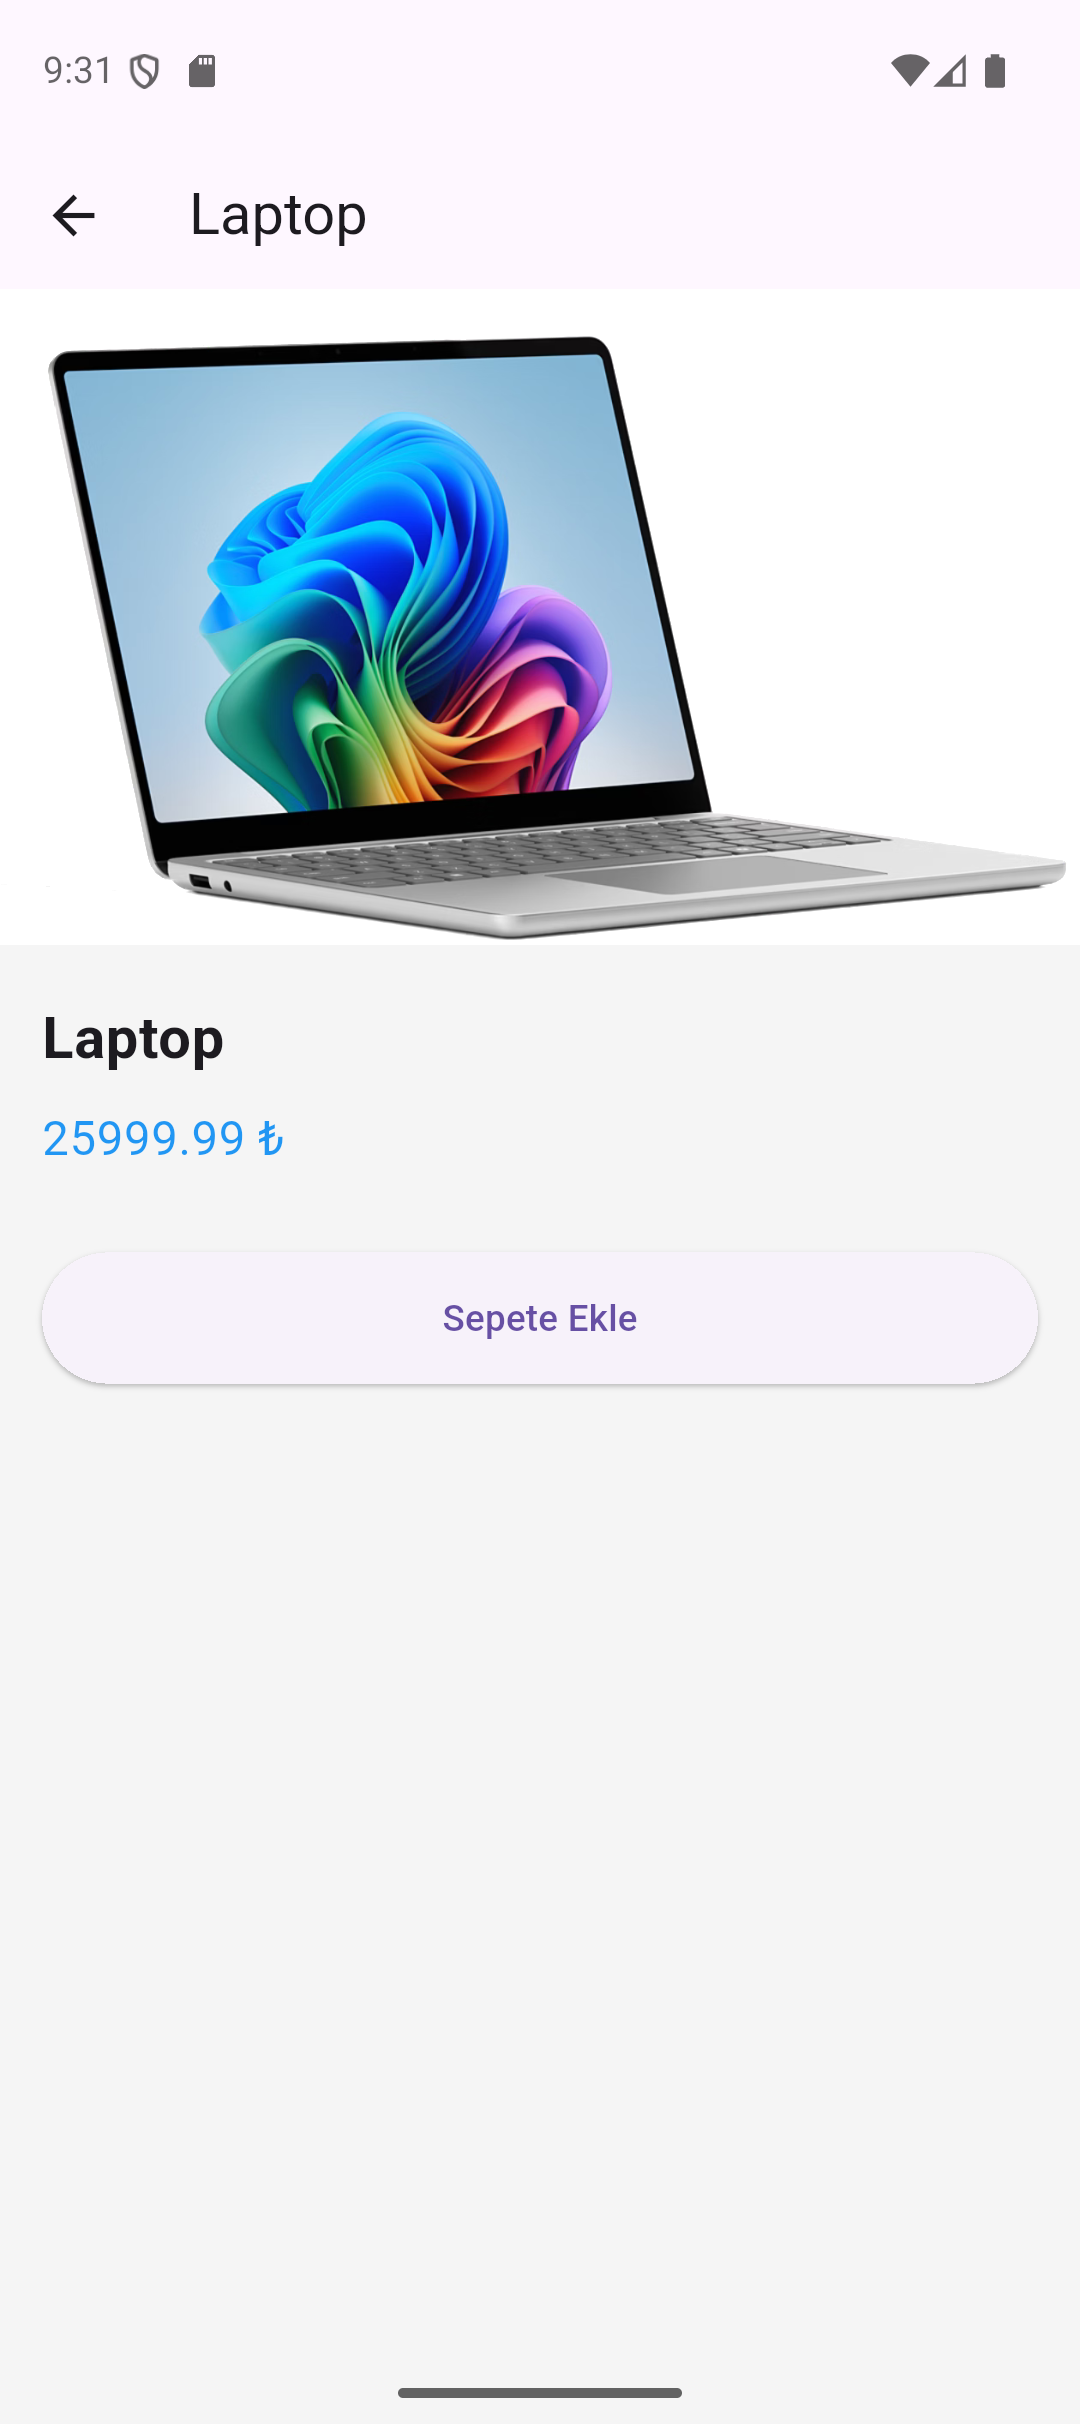
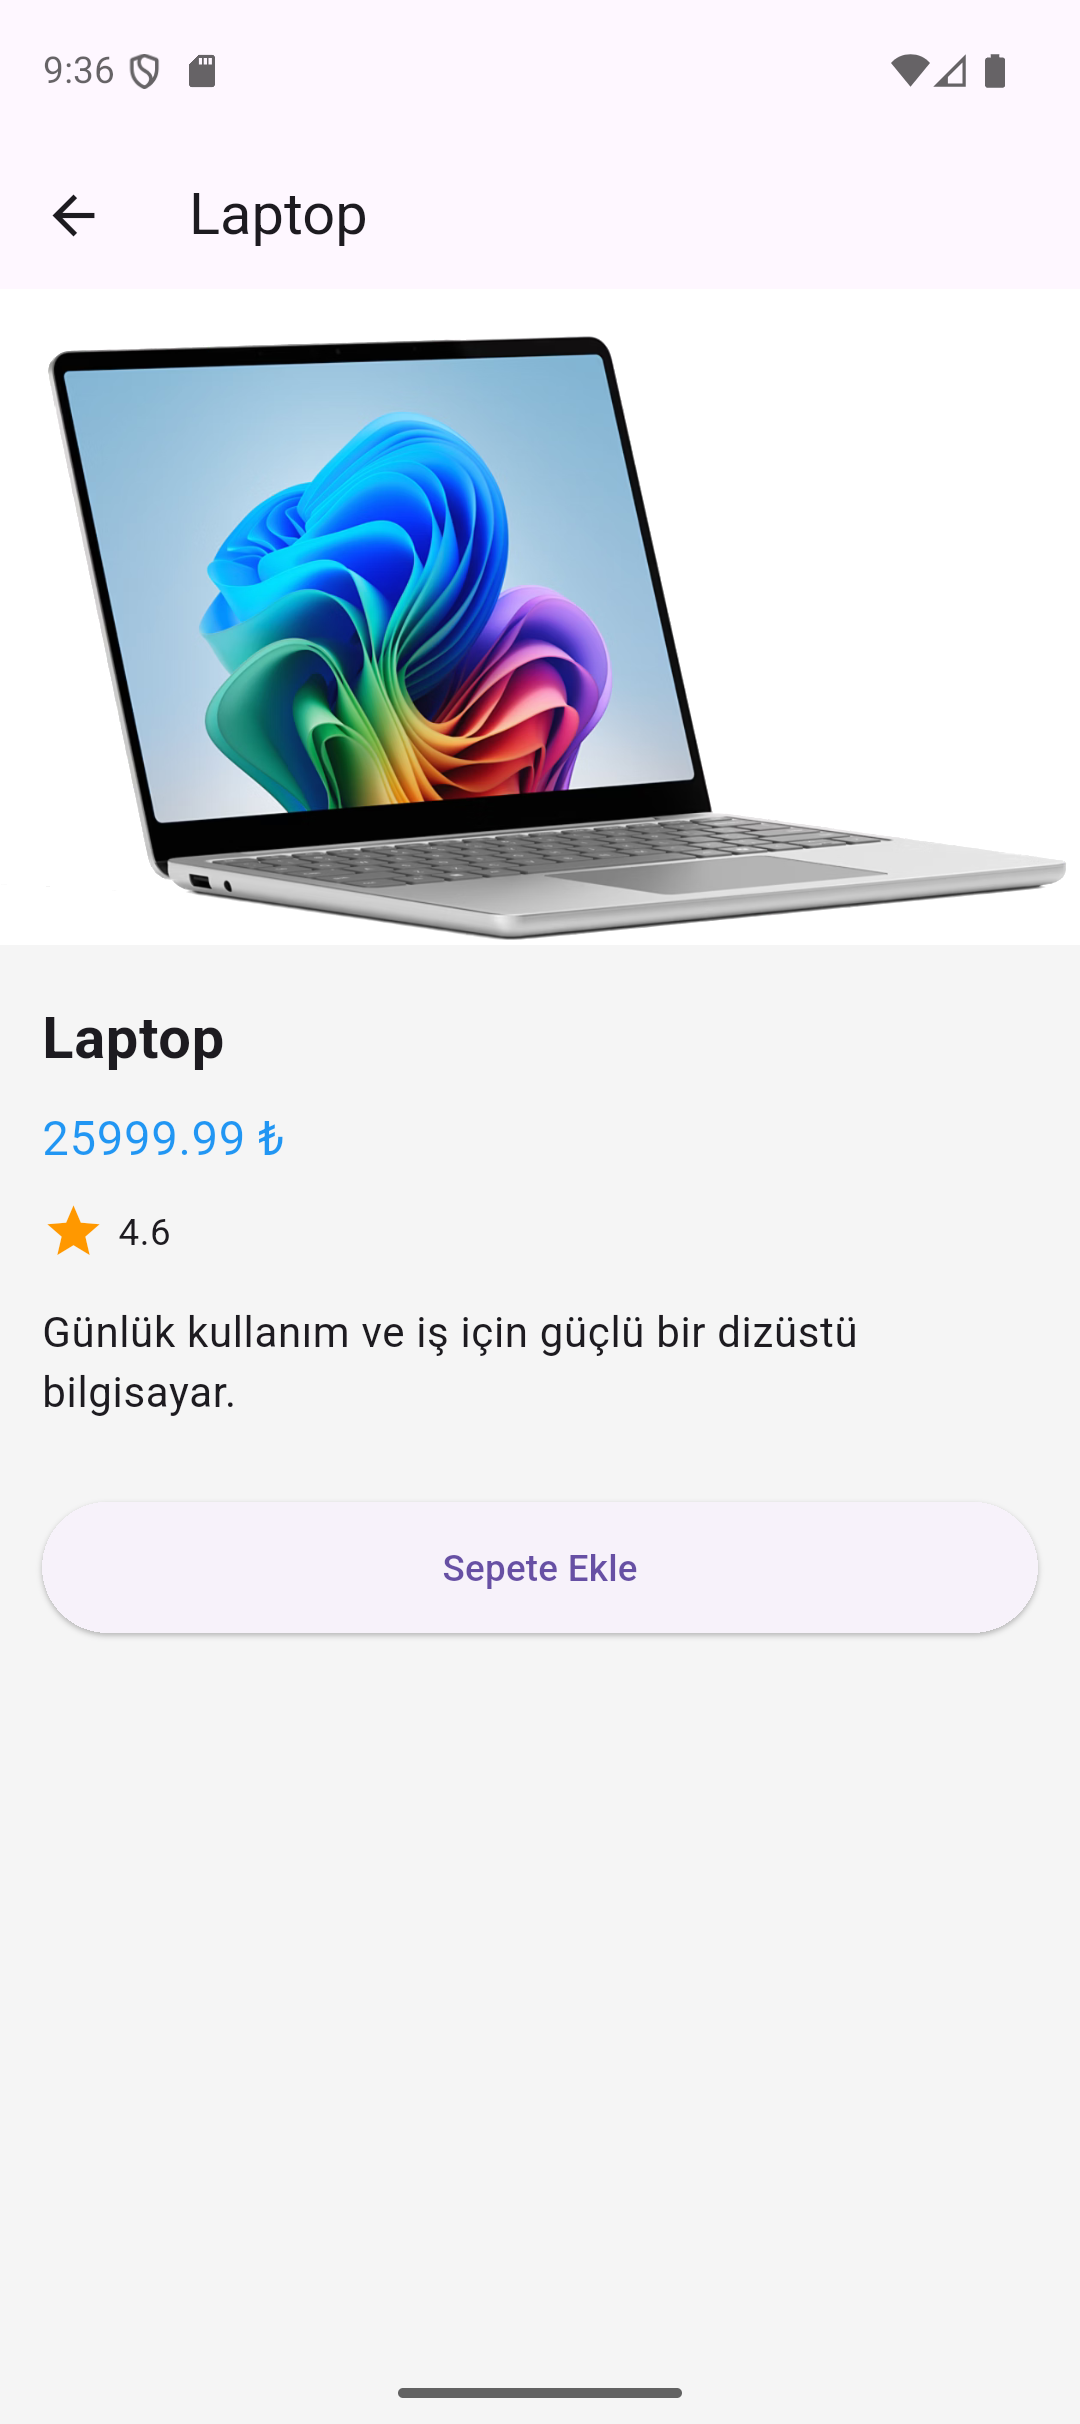
dammy data detay eklendi

diff --git a/lib/pages/detail_page.dart b/lib/pages/detail_page.dart
@@ -47,6 +47,25 @@ class DetailPage extends StatelessWidget {
                 ),
               ),
             ),
+            const SizedBox(height: 10),
+            Padding(
+              padding: const EdgeInsets.symmetric(horizontal: 16),
+              child: Row(
+                children: [
+                  const Icon(Icons.star, color: Colors.orange),
+                  const SizedBox(width: 5),
+                  Text("${product.rating}"),
+                ],
+              ),
+            ),
+            const SizedBox(height: 15),
+            Padding(
+              padding: const EdgeInsets.symmetric(horizontal: 16),
+              child: Text(
+                product.description,
+                style: const TextStyle(fontSize: 16),
+              ),
+            ),
             const SizedBox(height: 30),
             Padding(
               padding: const EdgeInsets.symmetric(horizontal: 16),
@@ -67,6 +86,7 @@ class DetailPage extends StatelessWidget {
                 ),
               ),
             ),
+            const SizedBox(height: 20),
           ],
         ),
       ),

diff --git a/lib/data/dummy_data.dart b/lib/data/dummy_data.dart
@@ -6,23 +6,32 @@ List<Product> products = [
     title: "Kulaklık",
     image: "assets/images/headphone.jpg",
     price: 899.99,
+    description: "Yüksek ses kalitesi ve konforlu kullanım sunan kablosuz kulaklık.",
+    rating: 4.5,
   ),
   Product(
     id: 2,
     title: "Telefon",
     image: "assets/images/phone.jpg",
     price: 12999.99,
+    description: "Yüksek performanslı işlemciye sahip akıllı telefon.",
+    rating: 4.7,
   ),
   Product(
     id: 3,
     title: "Laptop",
     image: "assets/images/laptop.jpg",
     price: 25999.99,
+    description: "Günlük kullanım ve iş için güçlü bir dizüstü bilgisayar.",
+    rating: 4.6,
   ),
   Product(
     id: 4,
     title: "Saat",
     image: "assets/images/watch.jpg",
     price: 1999.99,
+    description: "Şık tasarımlı ve dayanıklı akıllı saat.",
+    rating: 4.3,
   ),
+ 
 ];

diff --git a/lib/models/product.dart b/lib/models/product.dart
@@ -3,11 +3,15 @@ class Product {
   final String title;
   final String image;
   final double price;
+  final String description;
+  final double rating;
 
   Product({
     required this.id,
     required this.title,
     required this.image,
     required this.price,
+    required this.description,
+    required this.rating,
   });
 }
